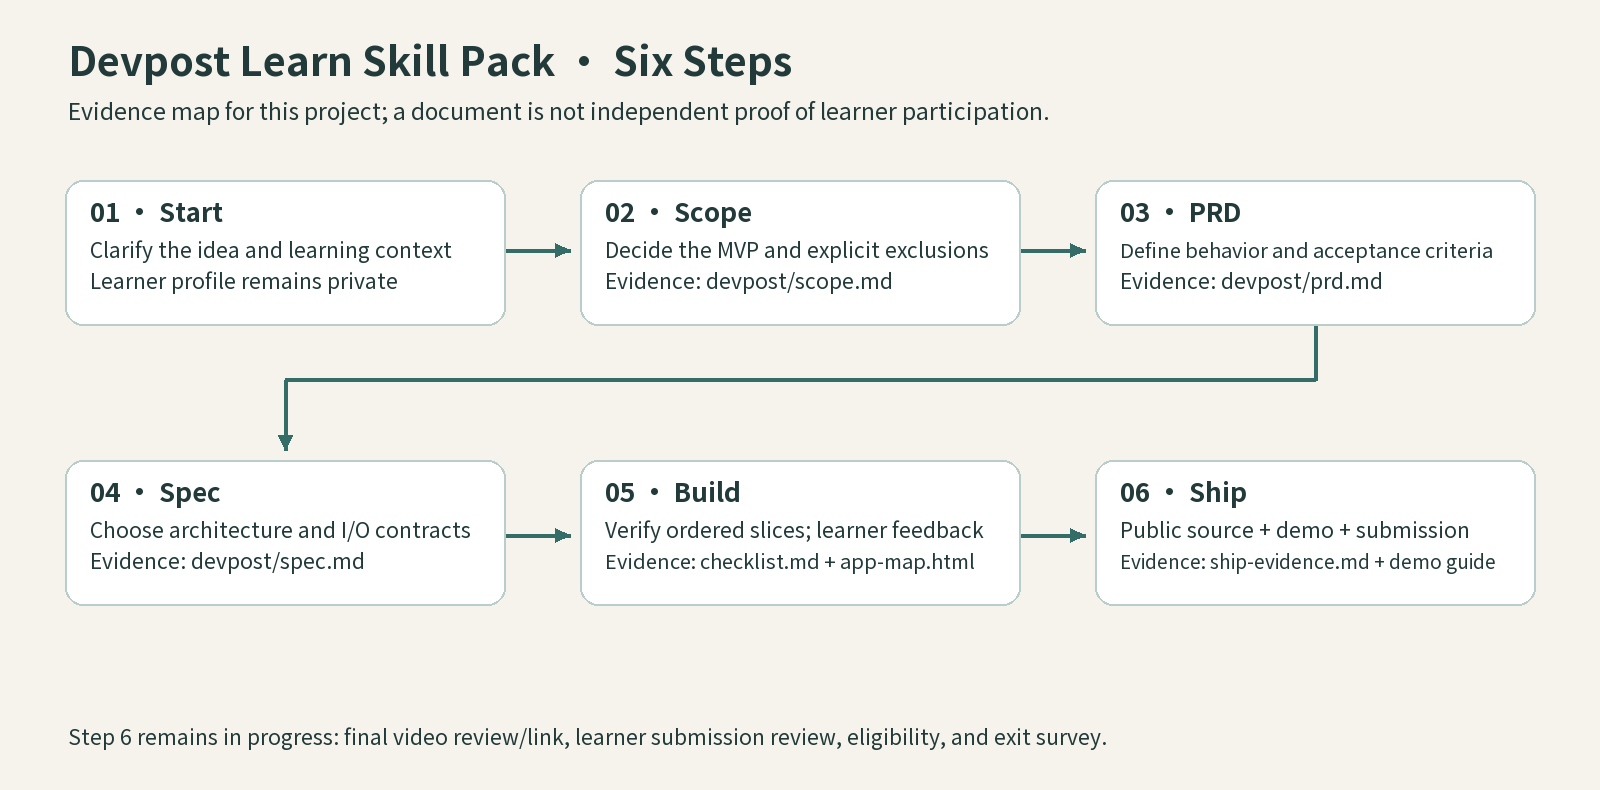
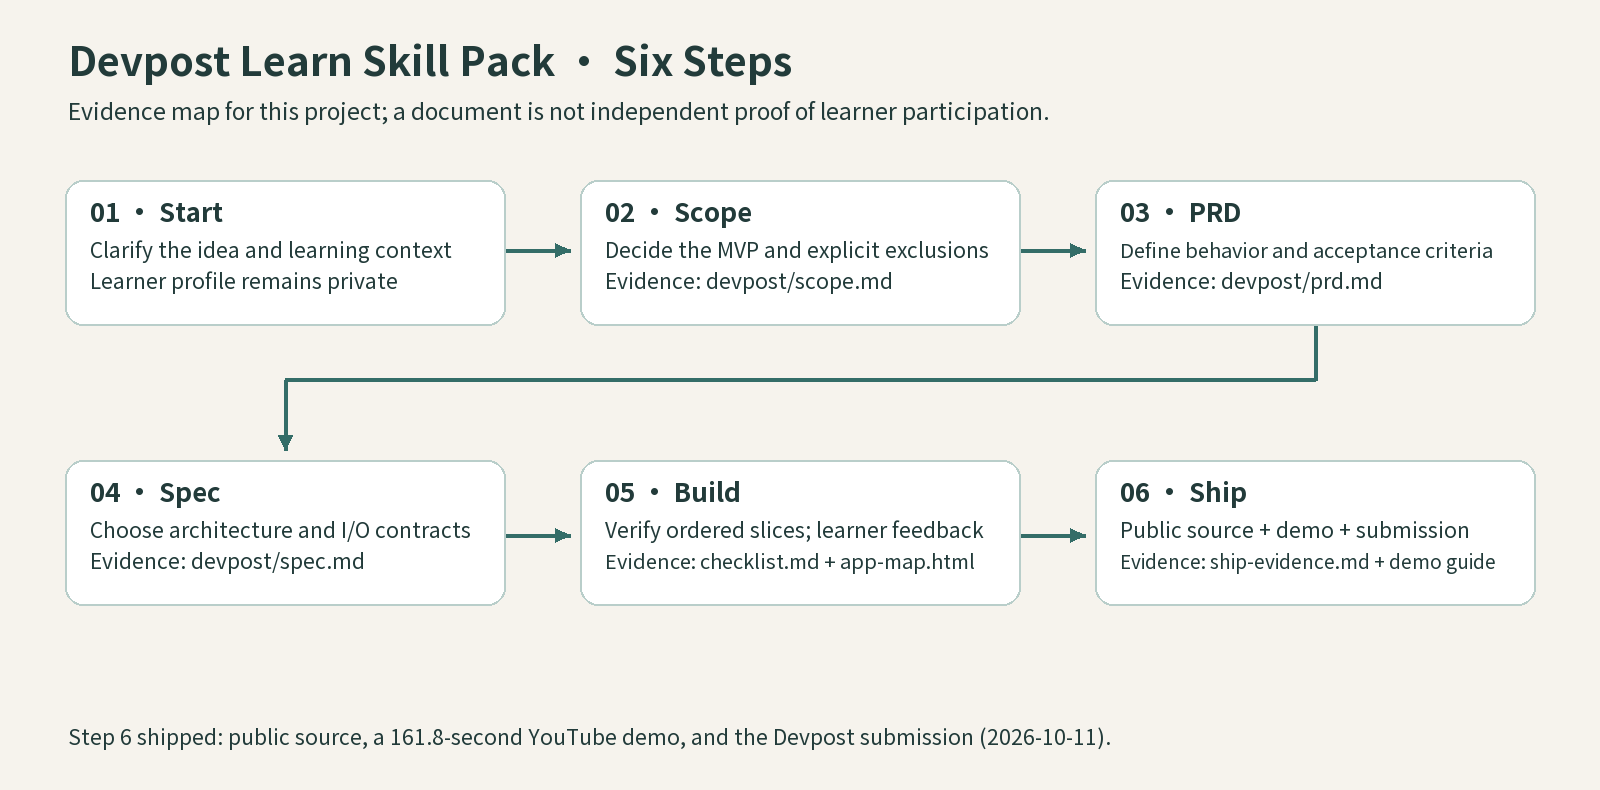
Six-step map: step 6 shipped, not in progress
Source snapshot 725c2fb (parent 84917ef) changes only the bottom sentence of
devpost/media/skill-pack-flow.png and .svg. 44 focused checks passed;
gitleaks: no leaks; Semgrep 1.182.0 with the published rules: 0 matches.
Evidence files now name the new snapshot.

Changed region(s): [[0.0938, 0.9114, 0.6875, 0.9418]]

diff --git a/CODE_SECURITY_EVIDENCE.md b/CODE_SECURITY_EVIDENCE.md
@@ -1,10 +1,10 @@
 # Current Code Security Evidence
 
 Review date: 2026-10-25  
-Source snapshot: `84917ef1449bcaf402ca6514b6bc76cf73ea6468`
+Source snapshot: `725c2fbb365ba0be43e79b88db0bc25d30effa70`
 Identity: `public-export-manifest.json`; detailed receipt: `security-evidence/verification.json`.
 
-The current UI delta received independent read-only form, CSRF, role/state, escaping, and hidden-required-field review without a concrete regression finding. The extracted public candidate at `31d03f82e2afa233c5387e0f584130931b1c6aed` passed 322 tests with one sandbox loopback skip. The same candidate passed the loopback server start/stop and port-release test separately. The previous published source at `707b3fa74d1da18bfbc8e80d9c7246e43d8a1d7a` differed from that tested candidate only by a checklist status correction; fifteen focused ship/export checks passed for that delta. The current source adds only three documentation corrections recording the uploaded video and observed submitted Devpost form; five existing ship-document tests passed. Runtime, tests and tools remain byte-identical to the previous published source. The 2026-10-25 source adds only a README note on what each AI tool was used for; the full local suite passed (322 passed, 1 skipped), and a Semgrep 1.182.0 rerun with the published rules found no matches. These are deterministic test checks, not five new browser journeys or final human video review.
+The current UI delta received independent read-only form, CSRF, role/state, escaping, and hidden-required-field review without a concrete regression finding. The extracted public candidate at `31d03f82e2afa233c5387e0f584130931b1c6aed` passed 322 tests with one sandbox loopback skip. The same candidate passed the loopback server start/stop and port-release test separately. The previous published source at `707b3fa74d1da18bfbc8e80d9c7246e43d8a1d7a` differed from that tested candidate only by a checklist status correction; fifteen focused ship/export checks passed for that delta. The current source adds only three documentation corrections recording the uploaded video and observed submitted Devpost form; five existing ship-document tests passed. Runtime, tests and tools remain byte-identical to the previous published source. The 2026-10-25 source adds only a README note on what each AI tool was used for; the full local suite passed (322 passed, 1 skipped), and a Semgrep 1.182.0 rerun with the published rules found no matches. A second 2026-10-25 source changes only the bottom sentence of the six-step map image (step 6 shipped); 44 focused checks passed and Semgrep still found no matches. These are deterministic test checks, not five new browser journeys or final human video review.
 
 Semgrep Core 1.176.0 scanned all 71 allowlisted Python files with the six local defensive rule families in `security-evidence/semgrep-rules.json`: dynamic Python execution, shell execution, unsafe deserialization, disabled TLS verification, debug runtime, and template-string rendering. It returned zero parsing errors, zero app/tools matches, and five test-only template-string matches. All five use fixed literal templates in synthetic test request contexts; test values are context arguments, not template source. The matches remain recorded in the receipt and are not suppressed or represented as zero raw findings. Equivalent code-security review and security/workflow tests passed; no production template-injection finding was identified.
 

diff --git a/SECRET_SCAN_EVIDENCE.md b/SECRET_SCAN_EVIDENCE.md
@@ -1,7 +1,7 @@
 # Current Secret Scan Evidence
 
 Review date: 2026-10-25  
-Source snapshot: `84917ef1449bcaf402ca6514b6bc76cf73ea6468`.
+Source snapshot: `725c2fbb365ba0be43e79b88db0bc25d30effa70`.
 
 Result: **PASS** (Gitleaks exit code 0, zero findings for the immutable publication package).
 
@@ -12,3 +12,4 @@ Only the allowlisted Git blobs, generated source manifest, diagram assets, and e
 This proves the scanned public scope only; it is not a claim that every private historical file has been inspected.
 
 On 2026-10-25 the package with the README AI-tools note was scanned again with `gitleaks dir`: no leaks found.
+The package with the updated six-step map was scanned again with `gitleaks dir`: no leaks found.

diff --git a/PACKAGE_REPUTATION_EVIDENCE.md b/PACKAGE_REPUTATION_EVIDENCE.md
@@ -1,7 +1,7 @@
 # Current Dependency Review Evidence
 
 Review date: 2026-10-25  
-Source snapshot: `84917ef1449bcaf402ca6514b6bc76cf73ea6468`
+Source snapshot: `725c2fbb365ba0be43e79b88db0bc25d30effa70`
 Scope: the 24 exact version pins in `requirements.txt`.
 
 The dependency manifest is byte-identical to the prior public repository. The existing project-local Python 3.12 environment passed `pip check` with no broken requirements; current functional, document, offline, and security tests passed as described in `security-evidence/verification.json`. No package was installed, upgraded, or substituted for this release.

diff --git a/PUBLIC_EXPORT_MANIFEST.md b/PUBLIC_EXPORT_MANIFEST.md
@@ -1,7 +1,7 @@
 # Current Public Export Manifest
 
 Review date: 2026-10-25  
-Source snapshot: `84917ef1449bcaf402ca6514b6bc76cf73ea6468`
+Source snapshot: `725c2fbb365ba0be43e79b88db0bc25d30effa70`
 Public repository: <https://github.com/jiarong0423/service-requirement-blueprint>.
 
 ## Exact source identity
